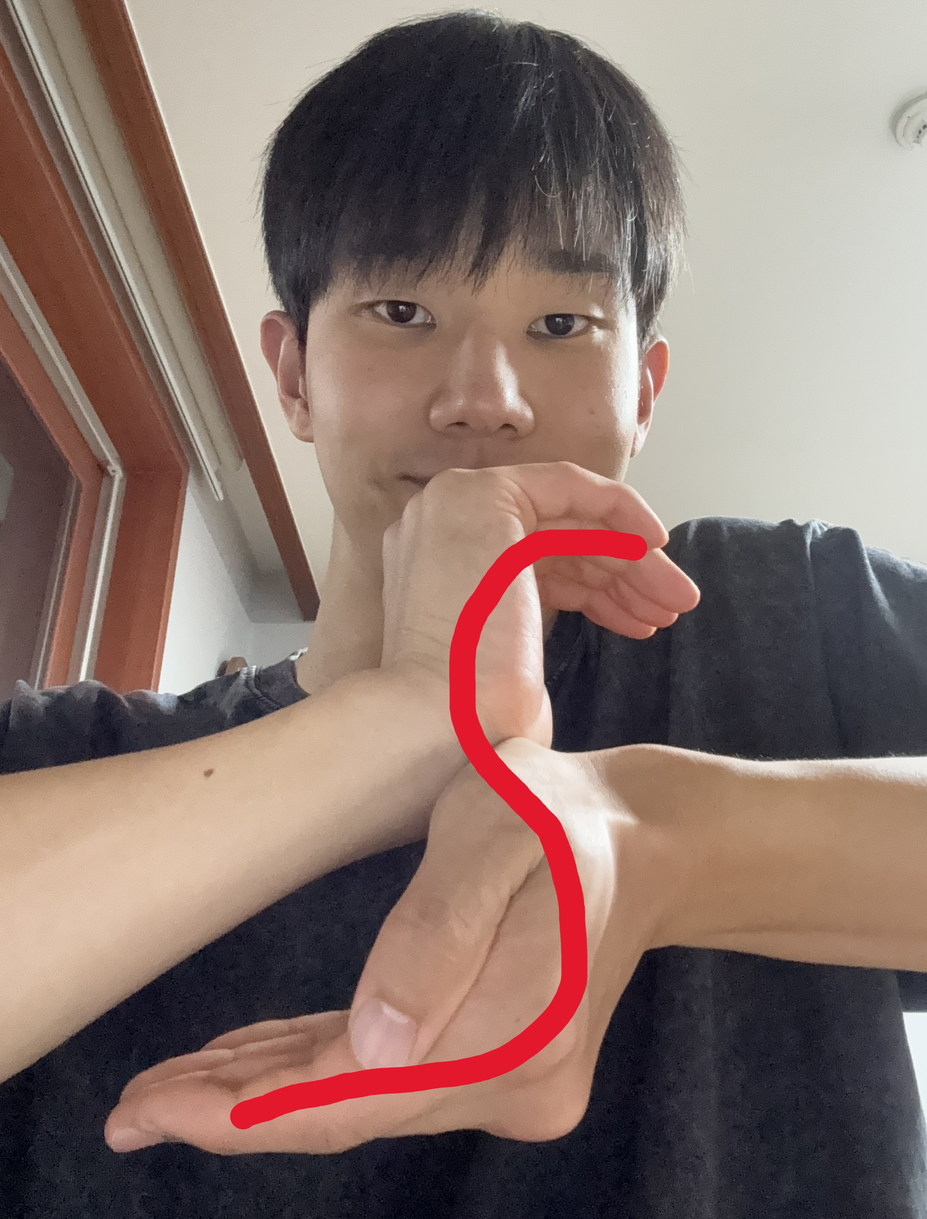
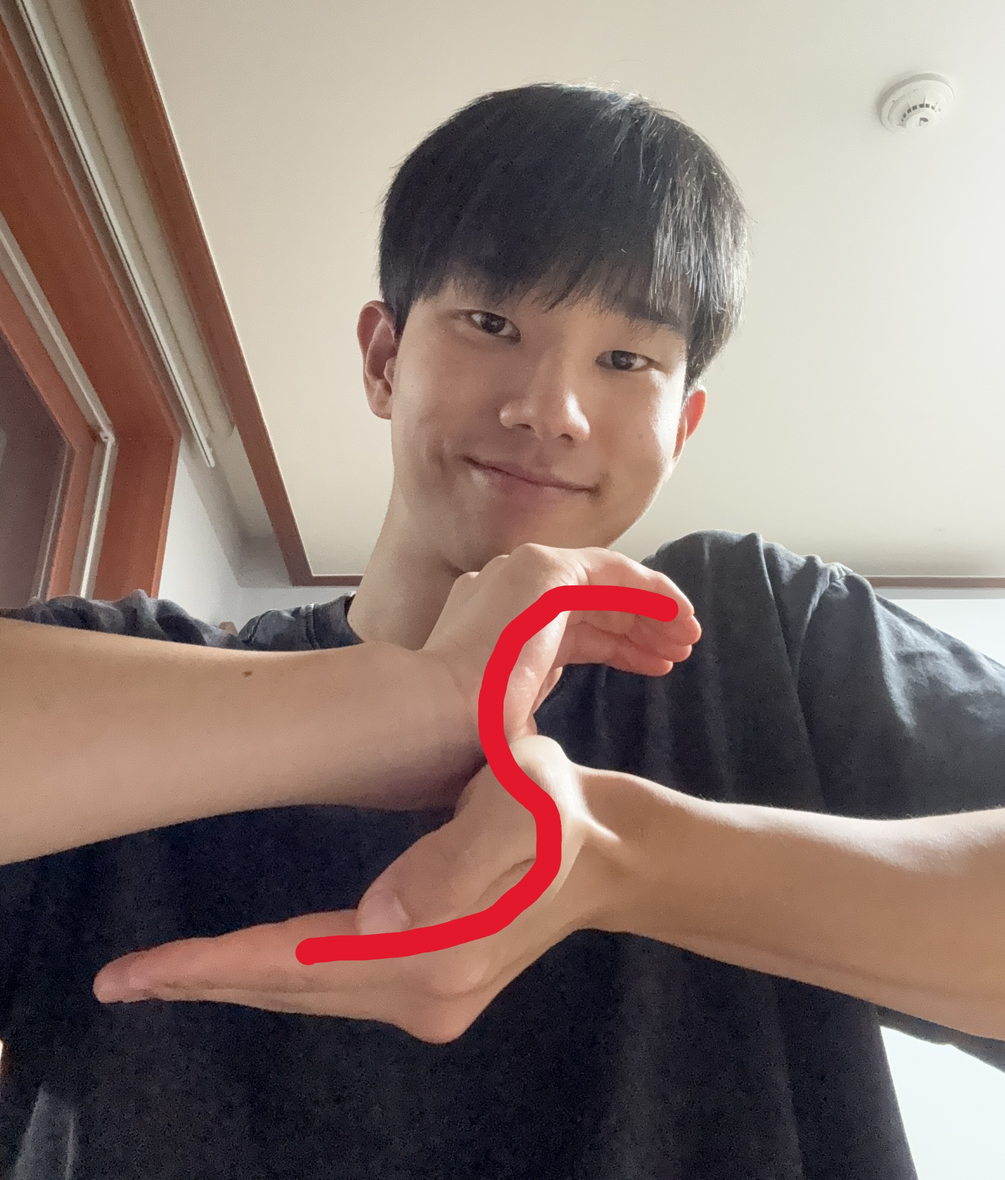
Update stage 11 first images

diff --git a/index.html b/index.html
@@ -2271,7 +2271,7 @@
           answer: "STAY",
           inputMode: "latin",
           photos: [
-            "./assets/images/stage11_photo1.jpg?v=1",
+            "./assets/images/stage11_photo1.jpg?v=2",
             "./assets/images/stage11_photo2.jpg?v=1",
             "./assets/images/stage11_photo3.jpg?v=1",
             "./assets/images/stage11_photo4.jpg?v=1",
@@ -2279,7 +2279,7 @@
           hint: "./assets/images/stage11_hint.jpg?v=1",
           hint2: "두 번째 사진은 사물도,\n세 번째 사진은 다른 신체 부위를 같이 봐야해요!",
           answerImages: [
-            "./assets/images/stage11_answer_1.jpg?v=1",
+            "./assets/images/stage11_answer_1.jpg?v=2",
             "./assets/images/stage11_answer_2.jpg?v=1",
             "./assets/images/stage11_answer_3.jpg?v=1",
             "./assets/images/stage11_answer_4.jpg?v=1",
